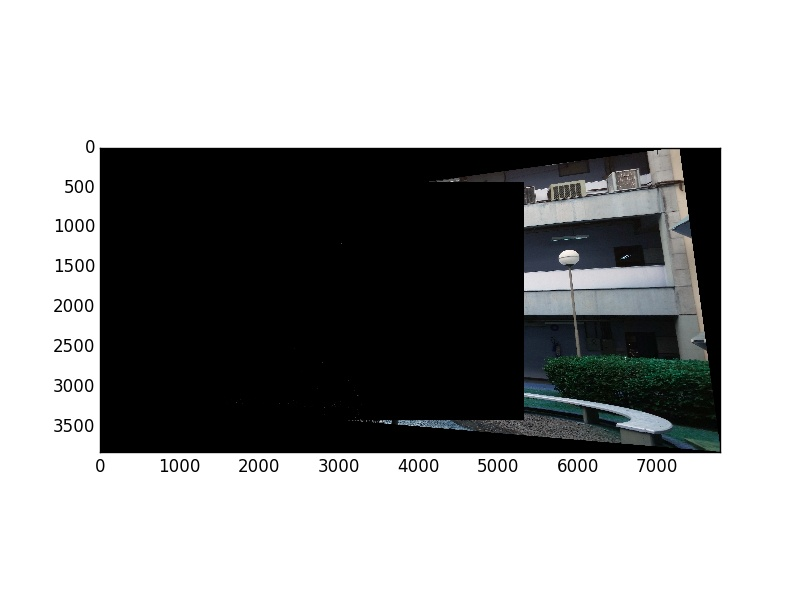
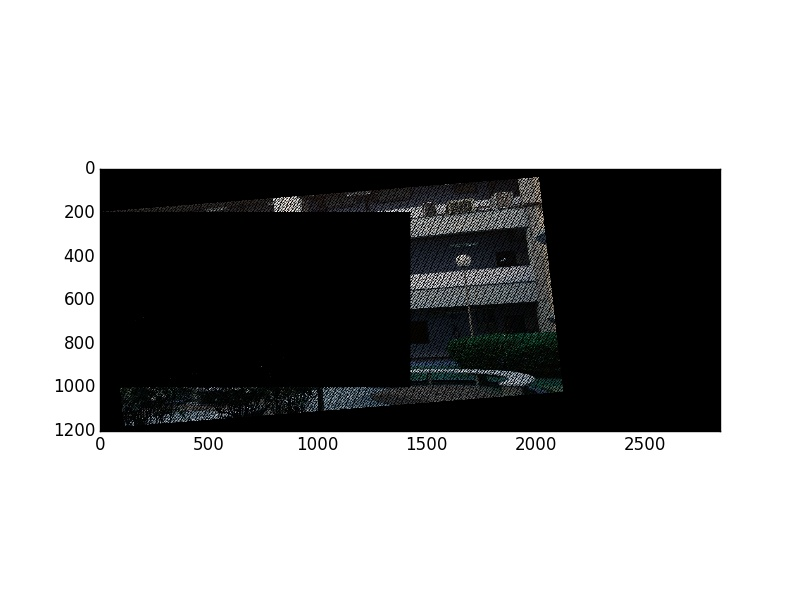
Starting warp perspective

diff --git a/tp2.py b/tp2.py
@@ -6,7 +6,7 @@ import matplotlib.pyplot as plt
 
 MASK_SIZE = 2000
 
-MAX_HEIGHT = 800.00
+MAX_HEIGHT = 1200.00
 
 SIFT_SIFT = 0
 FAST_BRIEF = 1
@@ -241,7 +241,7 @@ class ImageBlock:
         dst_pts = np.float32([target_kp[m.trainIdx].pt for m in good_matches]).reshape(-1, 1, 2)
 
         print "homography"
-        matrix_h, mask = cv2.findHomography(src_pts, dst_pts, cv2.RANSAC, 3)
+        matrix_h, mask = cv2.findHomography(src_pts, dst_pts, cv2.RANSAC, ransacReprojThreshold=5)
 
         print(self.determinant(matrix_h))
 
@@ -251,13 +251,16 @@ class ImageBlock:
 
     def warp(self, h, new_h, new_w, min_x, min_y):
         img_h, img_w = self._image.shape[:2]
+
         warped_img = np.zeros((new_h, new_w, 3), np.uint8)
         w = 1
         for y in range(img_h):
             for x in range(img_w):
                 x1 = min_x + (h[0, 0]*x) + (h[1, 0]*y) + (h[2, 0]*w)
                 y1 = min_y + (h[0, 1]*x) + (h[1, 1]*y) + (h[2, 1]*w)
-                warped_img[y1, x1] = self._image[y, x]
+
+                if (x1 < new_w-1) and (y1 < new_h-1) and (x1 >= 0) and (y1 >= 0):
+                    warped_img[y1, x1] = self._image[y, x]
 
         return warped_img
 
@@ -269,34 +272,18 @@ class Mosaic:
         matches = center_block.match(target)
         homography = center_block.get_homography(target, matches)
         inv_homography = np.linalg.inv(homography)
-        (min_x, min_y, max_x, max_y) = get_dimensions(target.get_image(), homography)
-        # Adjust max_x and max_y by base img size
-        max_x = max(max_x, center_block.get_image().shape[1])
-        max_y = max(max_y, center_block.get_image().shape[0])
-
-        img_w = int(math.ceil(max_x)) + 100
-        img_h = int(math.ceil(max_y)) + 100
-
-        if min_x < 0:
-            min_x *= -1
-
-        if min_y < 0:
-            min_y *= -1
-
-        new_h = max_y + 100 #+ min_y + 100
-        new_w = max_x + 100 #+ min_x + 100
-
-        img_w = new_w + 1
-        img_h = new_h + 1
+        img_h, img_w = center_block.get_image().shape[:2]
         # target_img_wrp = cv2.warpPerspective(target.get_image(), mod_inv_h, (img_w, img_h))
-        target_img_wrp = target.warp(inv_homography, new_h, new_w, min_x, min_y)
+        new_h = img_h * 1.5
+        new_w = img_w * 2
+        target_img_wrp = target.warp(homography, new_h, new_w, 0, 200)
         # center_img_wrp = cv2.warpPerspective(center_block.get_image(), move_h, (img_w, img_h))
-        center_img_wrp = center_block.warp(inv_homography, new_h, new_w, min_x, min_y)
+        center_img_wrp = center_block.warp(np.identity(3), new_h, new_w, 0, 200)
 
         (ret, data_map) = cv2.threshold(cv2.cvtColor(center_img_wrp, cv2.COLOR_BGR2GRAY),
                                         0, 255, cv2.THRESH_BINARY)
 
-        enlarged_base_img = np.zeros((img_h, img_w, 3), np.uint8)
+        enlarged_base_img = np.zeros((new_h, new_w, 3), np.uint8)
         # Now add the warped image
         save_image(target_img_wrp, 'wrapped_' + target.get_path())
         save_image(center_img_wrp, 'wrapped_' + center_block.get_path())
@@ -333,7 +320,7 @@ class Mosaic:
 
         # for b, t in img_combinations:
 
-        block34 = self.combine(block_list[3], block_list[2], 'img34.png')
+        block34 = self.combine(block_list[2], block_list[3], 'img34.png')
         show_image(block34.get_image())
 
         # block34.detect(left=MASK_SIZE)
